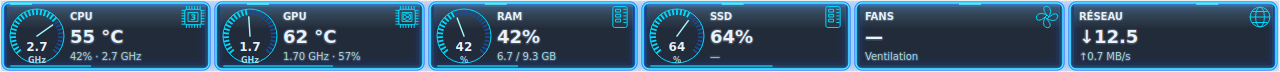
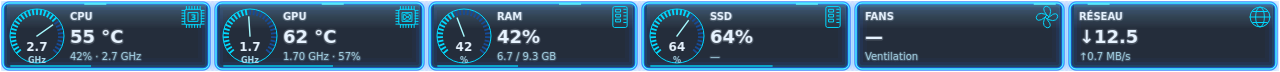
docs: link published 0.5.1 installers and correct Linux installation examples

diff --git a/Executable/README.md b/Executable/README.md
@@ -1,45 +1,16 @@
-# CYBER NEXUS HUD — installateurs autonomes de NovaBar
+# Installateurs CYBER NEXUS HUD / NovaBar 0.5.1
 
-Les exécutables sont déposés ici par le pipeline après validation des builds natifs.
-Ils **contiennent NovaBar et ses dépendances** : aucun clone du dépôt, Python ou compilateur n’est nécessaire.
+Les nouveaux paquets sont regroupés dans la [release officielle 0.5.1](https://github.com/florian74410/Health-and-Perfs---Navigation-Controler-Bar/releases/tag/v0.5.1), avec les manifestes et contrôles SHA-256.
 
-| Système | Téléchargement | Lancement |
-| --- | --- | --- |
-| Linux Mint XFCE / Ubuntu x64 | [NovaBar_0.3.5_amd64.deb](Linux/NovaBar_0.3.5_amd64.deb) | Double-clic ou `sudo apt install ./NovaBar_0.3.5_amd64.deb` |
-| Linux x64 avec Flatpak | [NovaBar_0.3.5_x86_64.flatpak](Linux/NovaBar_0.3.5_x86_64.flatpak) | `flatpak install --user ./NovaBar_0.3.5_x86_64.flatpak` |
-| Linux x64 autonome | [CyberNexusHUD-Linux-x86_64.run](Linux/CyberNexusHUD-Linux-x86_64.run) | `sh CyberNexusHUD-Linux-x86_64.run` |
-| Windows 10/11 x64 | [CyberNexusHUD-Setup-Windows.exe](Windows/CyberNexusHUD-Setup-Windows.exe) | Double-cliquer |
-| macOS 12+ Apple Silicon | [CyberNexusHUD-macOS-arm64.dmg](MacOS/CyberNexusHUD-macOS-arm64.dmg) | Ouvrir le DMG puis CyberNexusInstaller.app |
-| macOS 12+ Intel | [CyberNexusHUD-macOS-x86_64.dmg](MacOS/CyberNexusHUD-macOS-x86_64.dmg) | Ouvrir le DMG puis CyberNexusInstaller.app |
+| Système | Télécharger |
+|---|---|
+| Linux Mint / Ubuntu x64 | [NovaBar_0.5.1_amd64.deb](https://github.com/florian74410/Health-and-Perfs---Navigation-Controler-Bar/releases/download/v0.5.1/NovaBar_0.5.1_amd64.deb) |
+| Linux Flatpak / Bazzite | [NovaBar_0.5.1_x86_64.flatpak](https://github.com/florian74410/Health-and-Perfs---Navigation-Controler-Bar/releases/download/v0.5.1/NovaBar_0.5.1_x86_64.flatpak) |
+| Linux autonome | [CyberNexusHUD-Linux-x86_64.run](https://github.com/florian74410/Health-and-Perfs---Navigation-Controler-Bar/releases/download/v0.5.1/CyberNexusHUD-Linux-x86_64.run) |
+| Windows 10 / 11 x64 | [CyberNexusHUD-Setup-Windows.exe](https://github.com/florian74410/Health-and-Perfs---Navigation-Controler-Bar/releases/download/v0.5.1/CyberNexusHUD-Setup-Windows.exe) |
+| macOS Intel | [CyberNexusHUD-macOS-x86_64.dmg](https://github.com/florian74410/Health-and-Perfs---Navigation-Controler-Bar/releases/download/v0.5.1/CyberNexusHUD-macOS-x86_64.dmg) |
+| macOS Apple Silicon | [CyberNexusHUD-macOS-arm64.dmg](https://github.com/florian74410/Health-and-Perfs---Navigation-Controler-Bar/releases/download/v0.5.1/CyberNexusHUD-macOS-arm64.dmg) |
 
-Sur la page d’un fichier GitHub, choisir **Download raw file** pour télécharger le fichier réel.
-Le paquet Linux est aussi destiné aux essais Bazzite Desktop ; cette cible reste expérimentale.
-High Sierra 10.13 n’est pas pris en charge par ces DMG. Les paquets ne sont pas signés/notarisés.
+Les fichiers historiques conservés dans les sous-dossiers ne sont pas automatiquement les derniers paquets. Utilisez les liens versionnés ci-dessus pour la 0.5.1. Les installateurs ne sont pas signés/notarisés et la validation d’un build ne garantit pas toutes les configurations de bureau ou matérielles.
 
-## Mint XFCE
-
-Télécharger le fichier `.run`, ouvrir un terminal dans le dossier de téléchargement, puis :
-
-```sh
-sh CyberNexusHUD-Linux-x86_64.run
-```
-
-L’assistant s’ouvre, installe la barre dans le compte utilisateur, enregistre les préférences
-et propose le démarrage automatique. Le fichier peut être vérifié sans installation :
-
-```sh
-sh CyberNexusHUD-Linux-x86_64.run --check
-sh CyberNexusHUD-Linux-x86_64.run --verify
-```
-
-Le mode `--verify` utilise un dossier temporaire et teste le binaire hors écran, sans
-modifier le profil ou le démarrage automatique. Le `.run` ne nécessite que les outils
-usuels du système (sh, tail, gzip, tar, sha256sum, mktemp) pour se décompacter.
-
-`manifest.json` indique version, commit source, tailles et empreintes ; `SHA256SUMS`
-permet de contrôler les téléchargements Windows/macOS. Ces empreintes ne remplacent
-pas une signature indépendante de l’éditeur.
-
-Le code source complet est sur la branche
-[feature/cyber-nexus-installer-v03](https://github.com/florian74410/Health-and-Perfs---Navigation-Controler-Bar/tree/feature/cyber-nexus-installer-v03).
-Le dossier Executable est également publié sur main pour être accessible depuis la page principale.
+[Installation](../docs/wiki/Installation.md) · [Nouveautés 0.5.1](../docs/UPDATE_V051.md) · [Visuels](../Assets/README.md)

diff --git a/README.md b/README.md
@@ -61,20 +61,20 @@ Les consommations CPU/GPU sont affichées uniquement lorsqu’une sonde les four
 
 | Système | Installateur | Usage |
 |---|---|---|
-| 🐧 **Linux Mint XFCE / Ubuntu** | [NovaBar 0.3.6 (.deb)](Executable/Linux/NovaBar_0.3.6_amd64.deb) | Paquet natif recommandé |
-| 🧊 **Linux avec Flatpak** | [NovaBar 0.3.6 (.flatpak)](Executable/Linux/NovaBar_0.3.6_x86_64.flatpak) | Bundle isolé |
-| 🐧 **Linux autonome** | [CyberNexusHUD (.run)](Executable/Linux/CyberNexusHUD-Linux-x86_64.run) | Installeur autonome historique |
-| 🪟 **Windows 10/11** | [Setup (.exe)](Executable/Windows/CyberNexusHUD-Setup-Windows.exe) | Assistant graphique |
-| 🍎 **macOS Intel** | [DMG x86_64](Executable/MacOS/CyberNexusHUD-macOS-x86_64.dmg) | macOS 12+ |
-| 🍏 **macOS Apple Silicon** | [DMG arm64](Executable/MacOS/CyberNexusHUD-macOS-arm64.dmg) | macOS 12+ |
+| 🐧 **Linux Mint XFCE / Ubuntu** | [NovaBar 0.5.1 (.deb)](https://github.com/florian74410/Health-and-Perfs---Navigation-Controler-Bar/releases/download/v0.5.1/NovaBar_0.5.1_amd64.deb) | Paquet natif recommandé |
+| 🧊 **Linux avec Flatpak** | [NovaBar 0.5.1 (.flatpak)](https://github.com/florian74410/Health-and-Perfs---Navigation-Controler-Bar/releases/download/v0.5.1/NovaBar_0.5.1_x86_64.flatpak) | Bundle isolé |
+| 🐧 **Linux autonome** | [CyberNexusHUD (.run)](https://github.com/florian74410/Health-and-Perfs---Navigation-Controler-Bar/releases/download/v0.5.1/CyberNexusHUD-Linux-x86_64.run) | Installeur autonome historique |
+| 🪟 **Windows 10/11** | [Setup (.exe)](https://github.com/florian74410/Health-and-Perfs---Navigation-Controler-Bar/releases/download/v0.5.1/CyberNexusHUD-Setup-Windows.exe) | Assistant graphique |
+| 🍎 **macOS Intel** | [DMG x86_64](https://github.com/florian74410/Health-and-Perfs---Navigation-Controler-Bar/releases/download/v0.5.1/CyberNexusHUD-macOS-x86_64.dmg) | macOS 12+ |
+| 🍏 **macOS Apple Silicon** | [DMG arm64](https://github.com/florian74410/Health-and-Perfs---Navigation-Controler-Bar/releases/download/v0.5.1/CyberNexusHUD-macOS-arm64.dmg) | macOS 12+ |
 
 > ⚠ Le pipeline GitHub Actions publie les exécutables après les tests multi-OS. **Vérifiez la version dans [Executable/manifest.json](Executable/manifest.json)** : la documentation peut être mise à jour avant les binaires. Les paquets ne sont pas signés/notarisés.
 
-**Installation sur Linux Mint :**
+****Téléchargez d’abord le `.deb` 0.5.1 ci-dessus**, puis fermez NovaBar avant de lancer l’installation :**
 
 ```bash
-cd "$(xdg-user-dir DOWNLOAD)"
-sudo apt install ./NovaBar_0.3.6_amd64.deb
+cd "$(xdg-user-dir DOWNLOAD)" &&
+sudo apt install ./NovaBar_0.5.1_amd64.deb &&
 novabar
 ```
 
@@ -114,7 +114,7 @@ Projet en développement. La compatibilité des overlays Wayland/Bazzite et le c
 
 Voir [CHANGELOG](CHANGELOG.md). Les sources de développement et les exécutables publiés peuvent avoir des versions différentes ; le manifeste des exécutables reste la référence pour les téléchargements.
 
-## NovaBar Next · sources 0.5.0
+## NovaBar Next · sources 0.5.1
 
 Les deux updates sont décrites dans le [changelog](CHANGELOG.md).
 
@@ -123,4 +123,4 @@ Les deux updates sont décrites dans le [changelog](CHANGELOG.md).
 
 [Downloader et packaging](docs/wiki/Downloader.md) · [CPU Mode et limitations OS](docs/wiki/CPU-Mode.md).
 
-Les exécutables du tableau ci-dessus sont les **anciens paquets 0.3.6**. Les sources 0.5.0 doivent passer la CI native et être publiées avant que le downloader puisse les proposer. Il refuse une release sans manifeste bootstrap valide.
+La release **0.5.1** regroupe les nouveaux paquets et leurs manifestes de contrôle SHA-256. Les fichiers historiques dans `Executable/` restent identifiés par leur version ; privilégiez les téléchargements de la release pour cette mise à jour.

diff --git a/Executable/Linux/README.md b/Executable/Linux/README.md
@@ -1,31 +1,15 @@
-# Linux — Mint XFCE / Ubuntu / Bazzite Desktop
+# NovaBar 0.5.1 — Linux
 
-### Nouveau — formats natifs (.deb et .flatpak)
-- `NovaBar_0.3.5_amd64.deb` : installation Mint/Ubuntu directement par gestionnaire de paquets.
-  Double-cliquer le .deb ou `sudo apt install ./NovaBar_0.3.5_amd64.deb`.
-  Lancer ensuite « NovaBar » depuis le menu, ou exécuter `novabar`.
-- `NovaBar_0.3.5_x86_64.flatpak` : bundle Flatpak installable avec
-  `flatpak install --user ./NovaBar_0.3.5_x86_64.flatpak`,
-  puis `flatpak run io.github.florian74410.NovaBar`.
-  Nécessite Flatpak et le runtime Freedesktop 25.08 (téléchargement séparé possible).
+[Télécharger NovaBar_0.5.1_amd64.deb](https://github.com/florian74410/Health-and-Perfs---Navigation-Controler-Bar/releases/download/v0.5.1/NovaBar_0.5.1_amd64.deb) · [Tous les paquets de la release](https://github.com/florian74410/Health-and-Perfs---Navigation-Controler-Bar/releases/tag/v0.5.1)
 
-Les deux paquets contiennent directement NovaBar et ouvrent la configuration au
-premier lancement. Ils remplacent leurs propres fichiers programme lors d'une
-mise à niveau sans effacer les profils, thèmes et plugins. **Ils ne désinstallent
-pas automatiquement un précédent runtime installé par l'ancien .run** :
-fermer toute instance encore ouverte et éviter de lancer deux versions en parallèle.
+Téléchargez le fichier dans Téléchargements, fermez NovaBar puis installez :
 
-Le Flatpak utilise un sandbox : certaines sondes CPU/GPU, nvidia-smi et le
-démarrage automatique peuvent être limités. Pour un monitoring matériel
-complet sur Linux Mint XFCE, privilégier le .deb.
-
-### Installateur autonome historique (.run)
-
-Télécharger `CyberNexusHUD-Linux-x86_64.run` puis exécuter :
-
-```sh
-sh CyberNexusHUD-Linux-x86_64.run
+```bash
+cd "$(xdg-user-dir DOWNLOAD)" &&
+sudo apt install ./NovaBar_0.5.1_amd64.deb &&
+novabar
 ```
 
-Le fichier contient l’installateur graphique, NovaBar et ses dépendances.
-Bazzite Desktop reste expérimental. Pas de mode Gaming.
+Le nouveau Flatpak et le lanceur `.run` sont également disponibles dans cette release. Les fichiers historiques présents dans ce dossier restent identifiés par leur version ; ils ne sont pas la mise à jour 0.5.1.
+
+[Guide d’installation](../../docs/wiki/Installation.md) · [Diagnostic](../../docs/wiki/Depannage.md)

diff --git a/Documentation/ROADMAP.md b/Documentation/ROADMAP.md
@@ -2,6 +2,17 @@
 
 > Document de référence des fonctionnalités, validé le 31 octobre 2026. Le statut « prévu » ne signifie pas implémenté. Les versions des plugins et du runtime doivent être compatibles avant distribution.
 
+## Réalisé dans le code 0.5.1
+
+- Compte-tours CPU/GPU et cadrans RAM/SSD proportionnels dans la barre compacte.
+- Holo CPU 460 × 330 px et capteurs 380 × 280 px, avec tableaux défilants et fonds transparents.
+- Ouverture/fermeture uniquement au clic sur le logo du plugin actif, en haut à droite.
+- Détails réseau par interface : état, vitesse de lien et débits reçus/émis.
+- Consommations CPU/GPU uniquement si mesurées ; aucune puissance par cœur inventée.
+- [Guide, vérifications et limites de la 0.5.1](../docs/UPDATE_V051.md) ; [captures Qt](../Assets/README.md).
+
+Les éléments plus ambitieux décrits ci-dessous restent une feuille de route, même lorsqu’un panneau de base existe.
+
 ## Vision
 
 NovaBar est une barre HUD résidente, responsive, rétractable, multi-écran et modulaire : CPU, GPU, RAM, stockage, ventilateurs, réseau, raccourcis et modules additionnels. Thème d'origine **Cyber-Futuriste / PCB Electric Blue** : transparence, typographies cyberpunk, tracés de circuits, halos néon, compteurs et jauges. L'application doit rester légère et ne jamais afficher de faux capteur comme une vraie mesure.
@@ -11,7 +22,7 @@ NovaBar est une barre HUD résidente, responsive, rétractable, multi-écran et 
 Chaque bloc cliquable possède 5 états :
 - **Idle** : informations compactes et mises à jour sans monopoliser l'interface.
 - **Hover** : halo renforcé, pistes PCB lumineuses, curseur de sélection.
-- **Active** : clic court → panneau semi-transparent se déployant depuis le bloc.
+- **Active** : clic court sur le logo en haut à droite → panneau transparent ancré près du bloc.
 - **Pinned** : panneau épinglé, persistant jusqu'à fermeture volontaire.
 - **Alert** : palette jaune/orange/rouge selon des seuils configurables.
 

diff --git a/docs/wiki/Interface.md b/docs/wiki/Interface.md
@@ -24,7 +24,7 @@ Les modules conservent leur géométrie proportionnelle : à faible largeur, la 
 
 ## 🧭 Boutons
 
-**TURBO⌄** : emplacement de contrôle non encore fonctionnel ; n'effectue aucun overclocking. **Console** : menu de scripts locaux du dossier choisi ; confirmation nécessaire avant exécution. **Dossier** : configuration ; **Extensions** : Plugin Control Center ; **Préférences** : réglages ; **? Wiki** : documentation GitHub dans le navigateur (v0.3.6+) ; **⤢** : hauteur ; **✕** : quitter.
+**TURBO⌄** : modes CPU Linux lorsque le noyau et les permissions le permettent ; voir [CPU Mode et limites](CPU-Mode.md). Aucun contrôle PWM ni overclocking universel. **Console** : menu de scripts locaux du dossier choisi ; confirmation nécessaire avant exécution. **Dossier** : configuration ; **Extensions** : Plugin Control Center ; **Préférences** : réglages ; **? Wiki** : documentation GitHub dans le navigateur (v0.3.6+) ; **⤢** : hauteur ; **✕** : quitter.
 
 Un menu contextuel et l'icône système proposent les actions importantes. Les modules peuvent être réordonnés par glisser-déposer. Le clic sur le logo en haut à droite de chaque plugin actif ouvre ou ferme son Holo ; le survol et le clic sur les valeurs ne l’ouvrent pas.
 

diff --git a/docs/wiki/Installation.md b/docs/wiki/Installation.md
@@ -10,18 +10,22 @@
 
 **Paquet Debian natif — recommandé pour le monitoring matériel :**
 
+1. Téléchargez [NovaBar_0.5.1_amd64.deb](https://github.com/florian74410/Health-and-Perfs---Navigation-Controler-Bar/releases/download/v0.5.1/NovaBar_0.5.1_amd64.deb) dans Téléchargements.
+2. Fermez la barre en cours.
+3. Exécutez :
+
 ```bash
-cd "$(xdg-user-dir DOWNLOAD)"
-sudo apt install ./NovaBar_0.3.6_amd64.deb
+cd "$(xdg-user-dir DOWNLOAD)" &&
+sudo apt install ./NovaBar_0.5.1_amd64.deb &&
 novabar
 ```
 
 Vous pouvez aussi double-cliquer le `.deb` pour passer par le gestionnaire de paquets local. Le nom exact peut changer après une nouvelle version.
 
-**Flatpak — plus isolé :**
+**Flatpak — plus isolé :** téléchargez le [bundle 0.5.1](https://github.com/florian74410/Health-and-Perfs---Navigation-Controler-Bar/releases/download/v0.5.1/NovaBar_0.5.1_x86_64.flatpak) avant les commandes suivantes.
 
 ```bash
-flatpak install --user ./NovaBar_0.3.6_x86_64.flatpak
+flatpak install --user ./NovaBar_0.5.1_x86_64.flatpak
 flatpak run io.github.florian74410.NovaBar
 ```
 

diff --git a/docs/wiki/Depannage.md b/docs/wiki/Depannage.md
@@ -41,3 +41,16 @@ Ouvrez une [issue GitHub](https://github.com/florian74410/Health-and-Perfs---Nav
 ---
 
 <sub>⚡ NovaBar • CYBER NEXUS HUD · Les illustrations sont documentaires, les fonctions non livrées sont signalées.</sub>
+
+## `apt` refuse un fichier `.deb`
+
+Si `apt` affiche « le fichier donné n’est pas compris sur la ligne de commande », vérifiez d’abord que le fichier téléchargé existe au chemin indiqué :
+
+```bash
+cd "$(xdg-user-dir DOWNLOAD)" &&
+ls -lh NovaBar*.deb
+```
+
+Utilisez le nom exact du fichier, notamment sa version ; une commande visant 0.3.6 n’installe pas un téléchargement 0.5.1. Reliez l’installation et le lancement par `&&` pour éviter de démarrer l’ancienne version après un échec.
+
+Les messages `xapp-gtk3-module` ou `g_task_set_static_name` affichés lors du lancement concernent les modules GTK/GIO et les bibliothèques chargées. Ils ne prouvent pas qu’une installation `.deb` a réussi. Vérifiez séparément `dpkg -s novabar` et `novabar --version` avant de diagnostiquer l’affichage.

diff --git a/docs/NEXT_VALIDATION.md b/docs/NEXT_VALIDATION.md
@@ -22,3 +22,5 @@ La CI est configurée pour les builds natifs Linux, Windows et macOS Intel/ARM. 
 ## Complément 0.5.1
 
 68 tests locaux réussis ; rendu des compte-tours, transparence des surfaces Holo, détails réseau par interface et absence de valeurs inventées vérifiés. Runtime, archive d’installation et exécutable extrait du DEB testés. Voir [la note 0.5.1](UPDATE_V051.md). Les nouveaux builds multi-OS restent à suivre dans GitHub Actions.
+
+Les quatre builds natifs de la 0.5.1 ont terminé avec succès dans le [run 41196956018](https://github.com/florian74410/Health-and-Perfs---Navigation-Controler-Bar/actions/runs/41196956018). La release v0.5.1 est publique ; les liens du guide d’installation pointent vers ses paquets versionnés.

diff --git a/docs/UPDATE_V051.md b/docs/UPDATE_V051.md
@@ -39,4 +39,6 @@ Le DEB compilé localement a été construit sous glibc 2.39 : il cible Mint 22 
 - Auto-test du runtime compilé et de l’exécutable extrait du DEB réussi.
 - Archives runtime et installateur hors ligne vérifiées.
 
+Les quatre builds GitHub Actions (Linux Ubuntu 22.04, Windows, macOS Intel et Apple Silicon) ont ensuite réussi leurs contrôles de compilation et d’exécution. La [release 0.5.1](https://github.com/florian74410/Health-and-Perfs---Navigation-Controler-Bar/releases/tag/v0.5.1) est publiée avec les paquets et manifestes SHA-256.
+
 Ces vérifications ne remplacent pas un essai sur bureau réel, notamment sous Wayland, Windows ou macOS.

diff --git a/Documentation/README.md b/Documentation/README.md
@@ -1,0 +1,10 @@
+# Documentation CYBER NEXUS HUD / NovaBar
+
+- [Wiki de NovaBar](../docs/wiki/Home.md)
+- [Mise à jour 0.5.1 : compte-tours et Holo transparents](../docs/UPDATE_V051.md)
+- [Installation](../docs/wiki/Installation.md)
+- [Diagnostic des erreurs de paquet Linux](../docs/wiki/Depannage.md)
+- [Visuels et captures avec canal alpha](../Assets/README.md)
+- [Feuille de route](ROADMAP.md)
+
+Les captures utilisent des données de démonstration. Les mesures réelles et les fonctions CPU dépendent du matériel, du système et des permissions.
